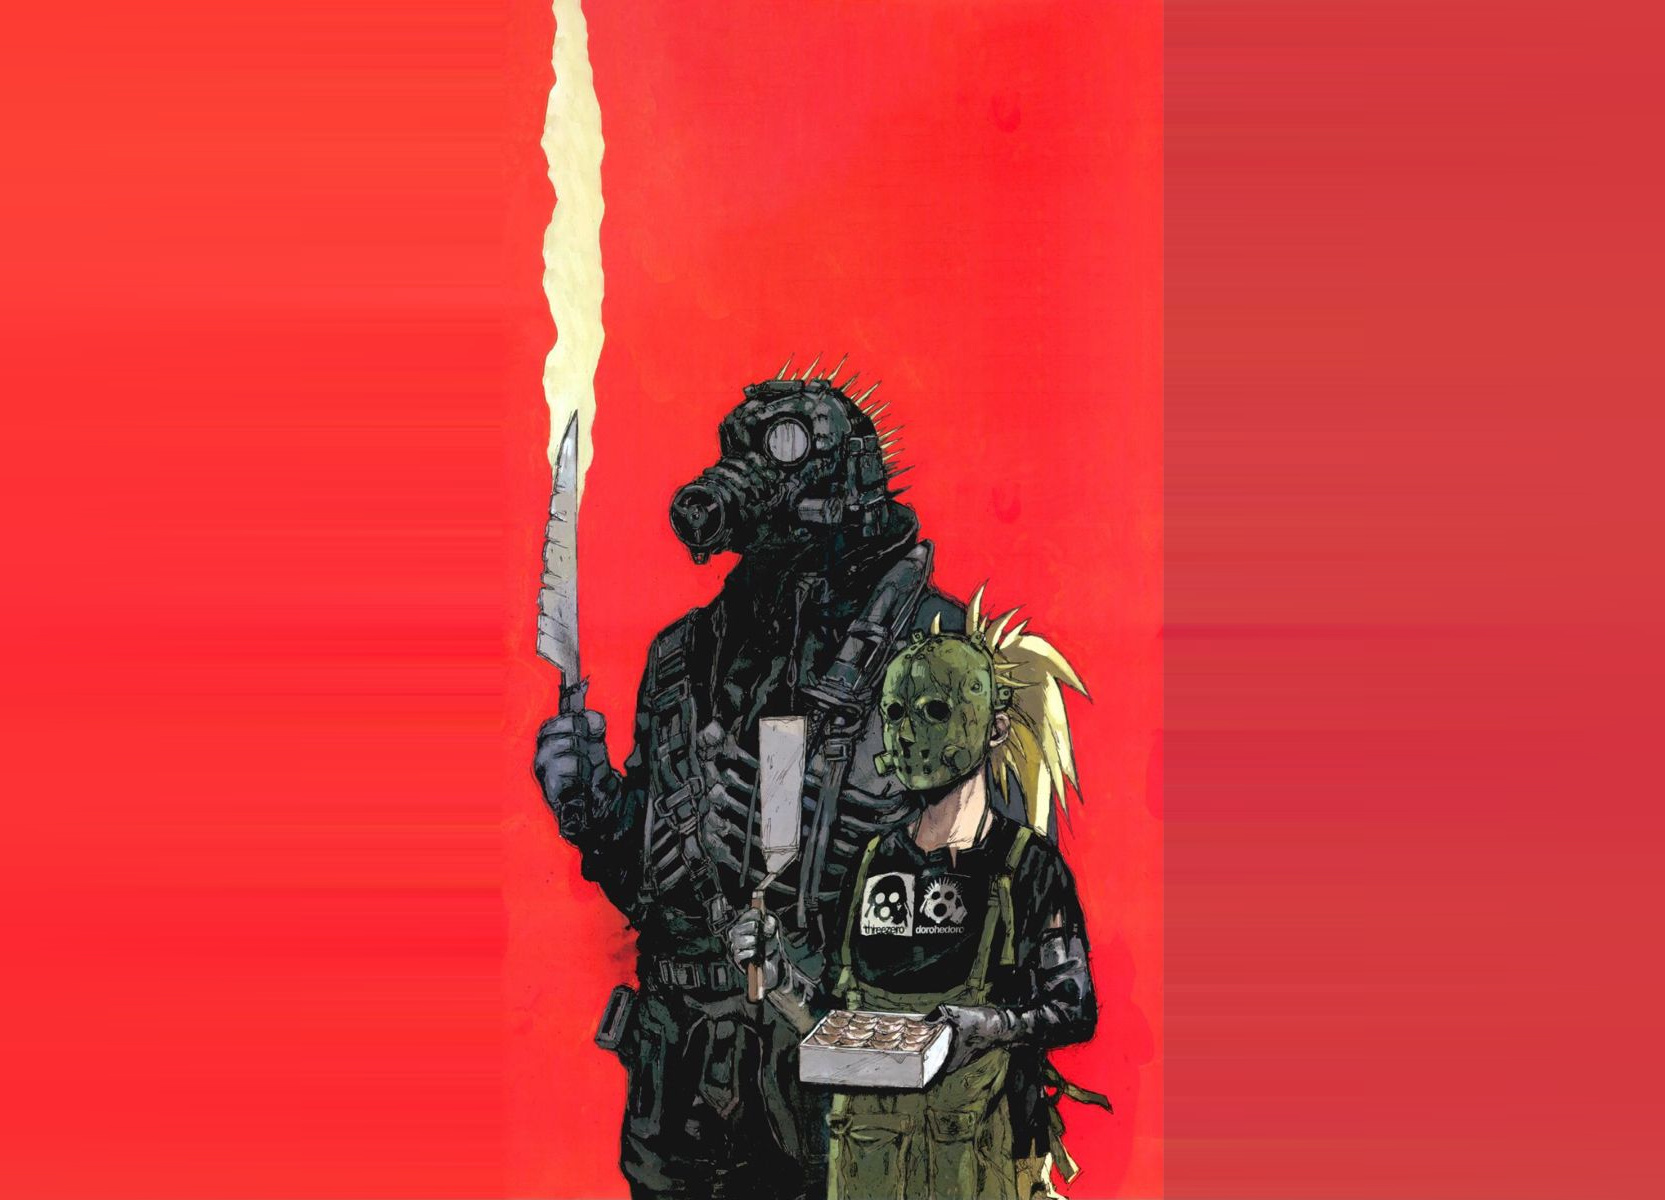
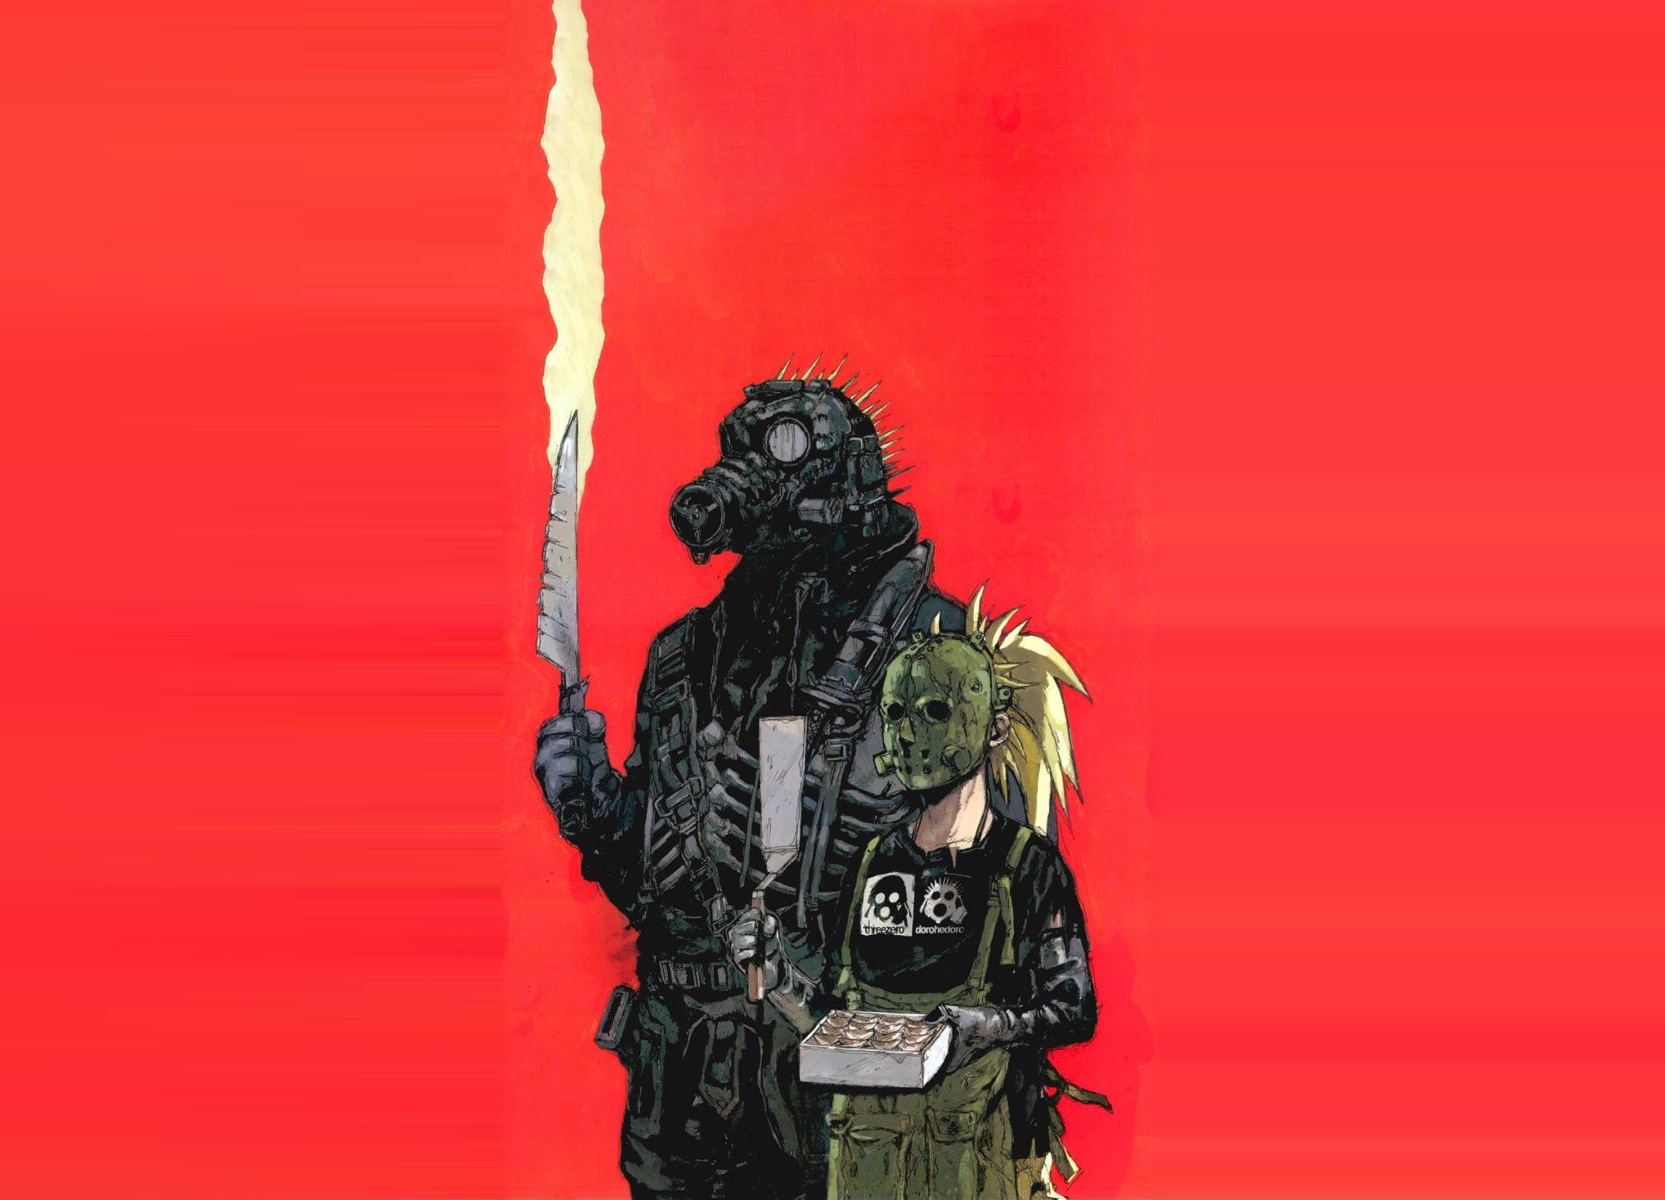
Raise the Dorohedoro crop and match the red edge fill

diff --git a/index.html b/index.html
@@ -25,7 +25,7 @@
 <g clip-path="url(#panel-2)" data-hero-panel><image href="photo/afro_samurai/AfroSamurai_Title.jpg" x="500" y="0" width="510" height="320" preserveAspectRatio="xMidYMid slice"/></g>
 <g clip-path="url(#panel-3)" data-hero-panel><image href="photo/edgerunners/Edgerunners_Title.jpg" x="880" y="0" width="720" height="320" preserveAspectRatio="xMidYMid slice"/></g>
 <g clip-path="url(#panel-4)" data-hero-panel><image href="photo/monster/Cover.jpg" x="1170" y="290" width="430" height="360" preserveAspectRatio="xMidYMid slice"/></g>
-<g clip-path="url(#panel-5)" data-hero-panel><image href="photo/dorohedoro/hero-panel-5-wide.jpg" x="900" y="570" width="700" height="429" preserveAspectRatio="xMidYMid slice"/></g>
+<g clip-path="url(#panel-5)" data-hero-panel><image href="photo/dorohedoro/hero-panel-5-wide.jpg" x="900" y="504" width="700" height="396" preserveAspectRatio="xMidYMid slice"/></g>
 <g clip-path="url(#panel-6)" data-hero-panel><image href="photo/evangelion/Evangelion_Title1.jpg" x="560" y="570" width="470" height="330" preserveAspectRatio="xMidYMid slice"/></g>
 <g clip-path="url(#panel-7)" data-hero-panel><image href="photo/dorohedoro/hero-panel-7-wide.jpg" x="0" y="504" width="650" height="396" preserveAspectRatio="xMidYMid slice"/></g>
 <g clip-path="url(#panel-8)" data-hero-panel><image href="photo/evangelion/Evangelion_Title2.jpg" x="0" y="205" width="430" height="435" preserveAspectRatio="xMidYMid slice"/></g>

diff --git a/build.py b/build.py
@@ -41,7 +41,7 @@ HERO_WEDGES = (
     ('500,0 1010,0 880,320 655,320', 500, 0, 510, 320),
     ('1010,0 1600,0 1600,290 1170,320 880,320', 880, 0, 720, 320),
     ('1600,290 1600,650 1170,570 1170,320', 1170, 290, 430, 360),
-    ('1600,650 1600,900 1030,900 900,570 1170,570', 900, 570, 700, 429),
+    ('1600,650 1600,900 1030,900 900,570 1170,570', 900, 504, 700, 396),
     ('1030,900 560,900 650,570 900,570', 560, 570, 470, 330),
     ('560,900 0,900 0,640 430,570 650,570', 0, 504, 650, 396),
     ('0,640 0,205 430,320 430,570', 0, 205, 430, 435),
